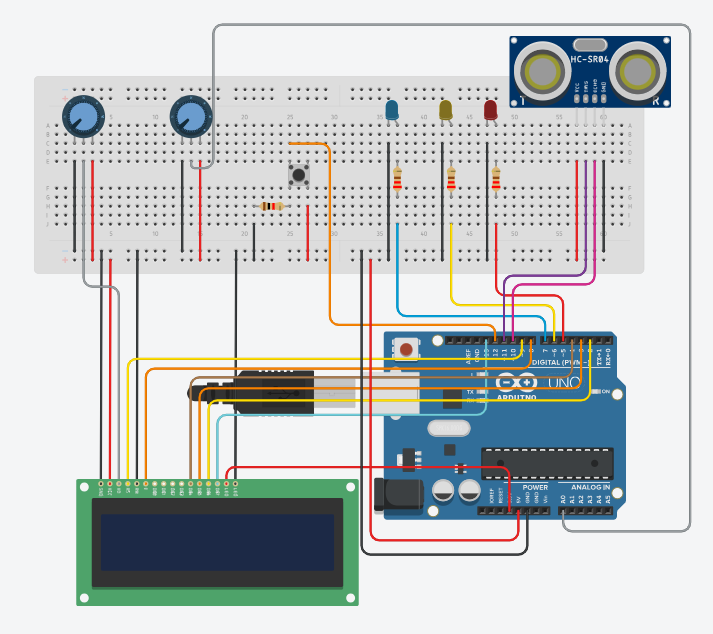
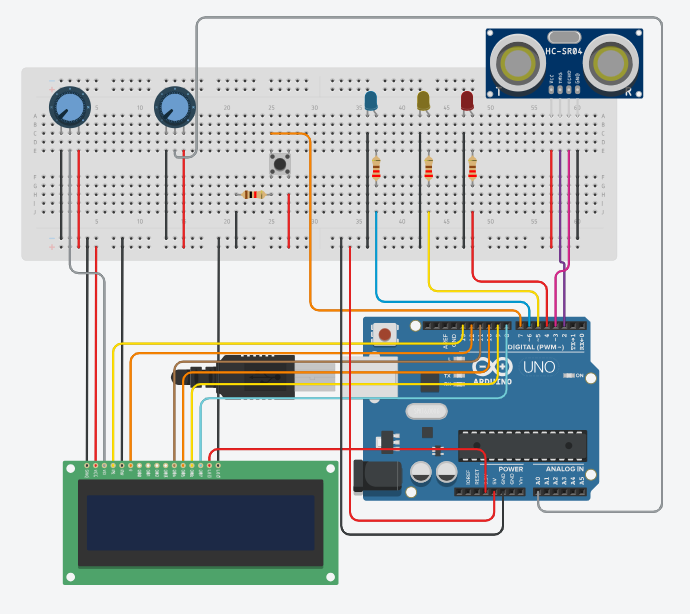
updated pinouts

Changed region(s): [[0.0304, 0.0, 0.9739, 0.9593]]

diff --git a/README.md b/README.md
@@ -51,10 +51,10 @@ Odometry is logged every 10 seconds with curve logging, limited to 6 points per 
 5 = yellow LED - indicates speeding  
 6 = blue LED - indicates ignition state  
 7 = button - simulates turning on ignition  
-8 = D4 - LCD  
-9 = D5 - LCD  
-10 = D6 - LCD  
-11 = D7 - LCD  
+8 = D7 - LCD  
+9 = D6 - LCD  
+10 = D5 - LCD  
+11 = D4 - LCD  
 12 = E - LCD  
 13 = RS - LCD  
 
